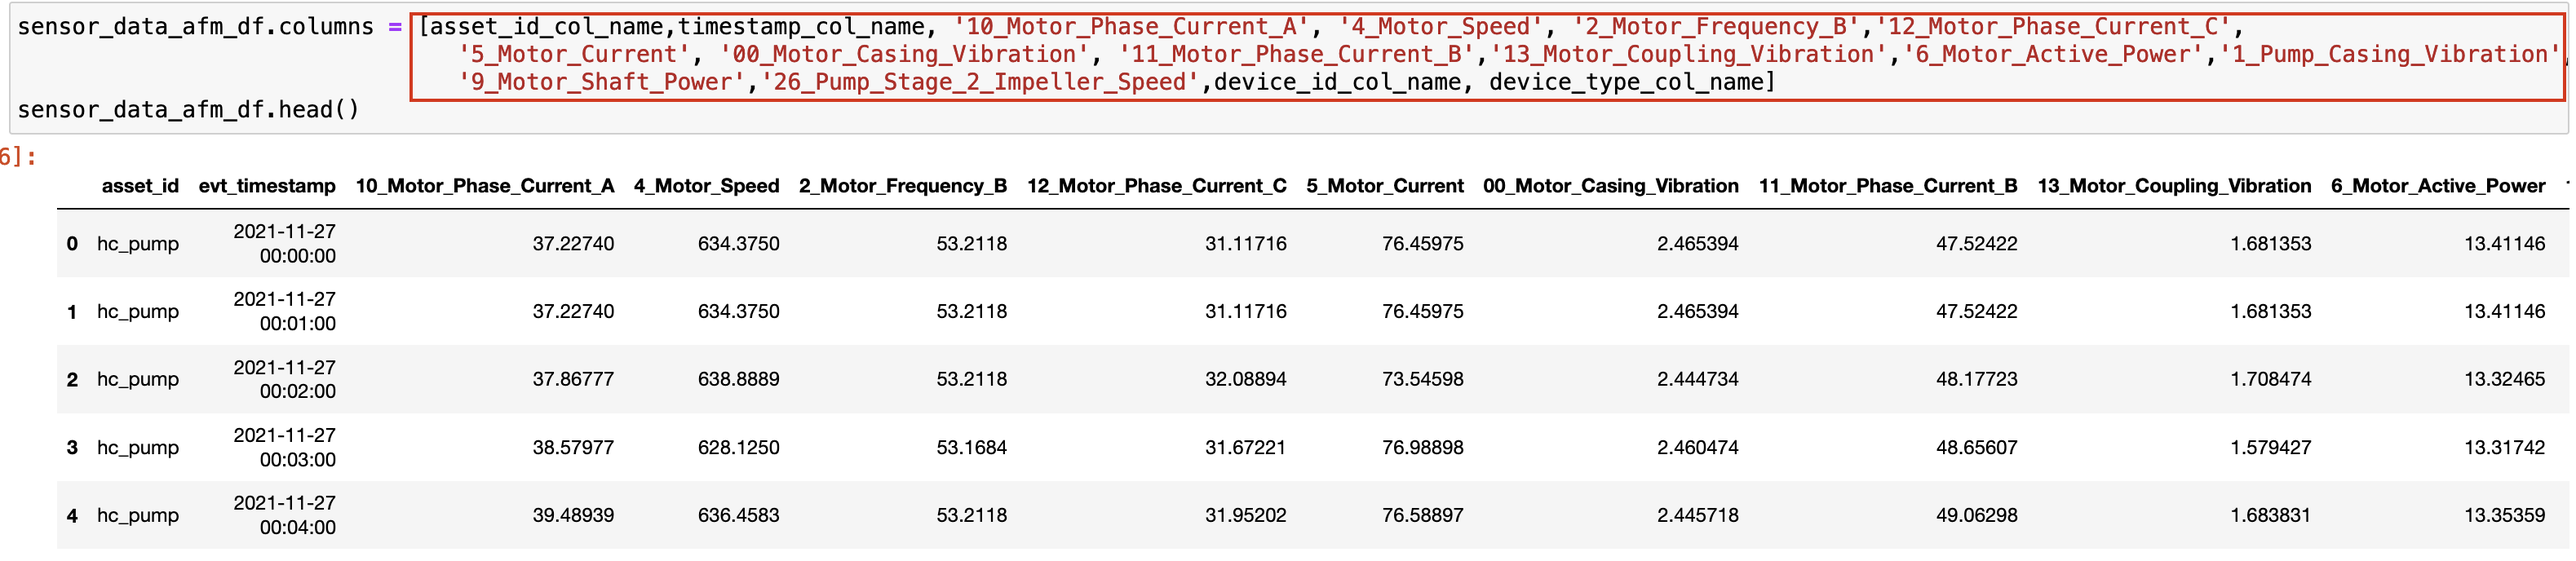
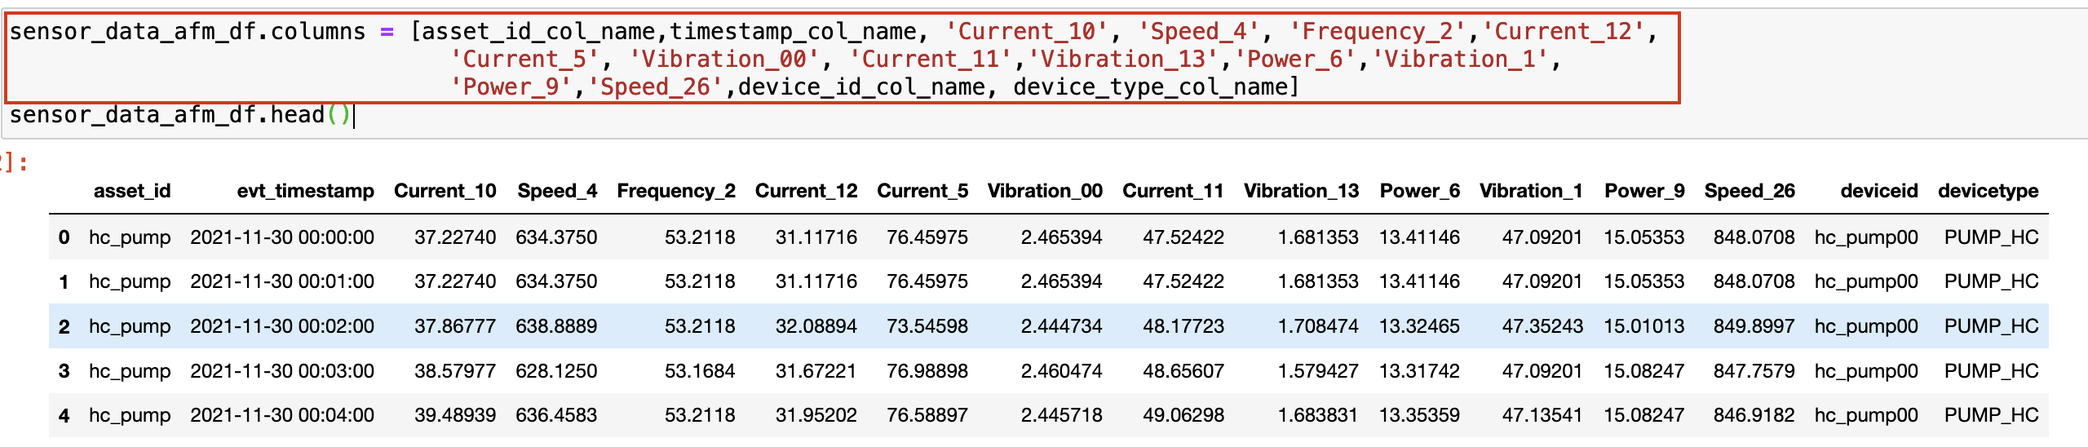
final fsl

diff --git a/MkDocs/apm_8.7/docs/fast_start_loader.md b/MkDocs/apm_8.7/docs/fast_start_loader.md
@@ -64,48 +64,86 @@ Select the `FastStart2021-New.ipynb` notebook template that you have renamed wit
 ![Clean up Outputs](./img/apm_8.7/hpu_fs5.png) 
 ### Part 6 - Delete Existing Data
 Note: This section is REQUIRED if you are refreshing asset data or uploading new data for an existing asset. If you get errors in this section, you may need to update the column header in the data frame created here. See [Update DateFrame Headers](#update_df_headers).
+
 1. Run the first four cells to delete data from Maximo to be replaced. Wait five minutes after the final cell to allow for the data to be fully deleted
+
 2. Run the next two cells to delete the asset group
+
 ## Part 7 - Insert Data
 The following steps will update the MAS database to include the data from the CSV files.
 1. Run the cell to view the DataFrame to be imported and run the following cell to use the pmlib library to create the assets in the list.
+
 2. Run the cell to view the assets attributes that will be imported into MAS. Run the following cell to update those values.
+
 3. Run the cell to view the failure history that will be imported into MAS. Run the following cell to import the failure data.
+
 4. Run the cell to write the function definitions required to create your asset group. Run the following cell to create teh asset group.
+
 5. Run the cell to print the asset group name and the asset group id. Take a note of the results as they may be needed in future notebooks.
+
 ![Asset Group Details](./img/apm_8.7/hpu_fs8.png) 
+
 6. Run the following cell to store the notebook results
+
 7. Set up the IOT Devices:
+
    1. Update DataFrame columns from `[timestamp_col_name, asset_id_col_name, 'VELOCITYX', 'VELOCITYY', 'VELOCITYZ', 'MOTORTEMP', 'WINDINGTEMP', 'CURRENT', 'PRESSURE', 'LOAD', device_id_col_name, device_type_col_name]` to match the sensor readings for your asset. For example, the line may now read:
-   `sensor_data_afm_df.columns = [asset_id_col_name,timestamp_col_name, '10_Motor_Phase_Current_A', '4_Motor_Speed', '2_Motor_Frequency_B','12_Motor_Phase_Current_C', '5_Motor_Current', '00_Motor_Casing_Vibration', '11_Motor_Phase_Current_B','13_Motor_Coupling_Vibration','6_Motor_Active_Power','1_Pump_Casing_Vibration','9_Motor_Shaft_Power','26_Pump_Stage_2_Impeller_Speed',device_id_col_name, device_type_col_name]`
+   `sensor_data_afm_df.columns = [asset_id_col_name,timestamp_col_name, 'Current_10', 'Speed_4', 'Frequency_2','Current_12','Current_5', 'Vibration_00', 'Current_11','Vibration_13','Power_6','Vibration_1','Power_9','Speed_26',device_id_col_name, device_type_col_name]`
+  
    ![Sensor Columns](./img/apm_8.7/hpu_fs9.png)
-   2. Run the cell
-   3. Take the same column list used in step one, and remove the Timestamp, Asset id, Device Id and the Device Type leaving only the sensor column headers and update the value of `columns`
+   
+   4. Run the cell
+   
+   5. Click into the next cell
+   
+   6. In the menu, go to `Insert > Cell Above` 
+   
+   ![Insert Cell Above](./img/apm_8.7/hpu_fs6.png) 
+   
+   8. In that cell, insert the following code and run:
+   `features_for_training=list(set(list(sensor_data_afm_df.columns))- set(['asset_id','evt_timestamp','deviceid','devicetype']))
+features_for_training`
+   
+   9. Update the value of `columns` to `columns=features_for_training`
+   
    ![Sensor Columns](./img/apm_8.7/hpu_fs10.png)
-   4. Run the cell and ensure there are no errors
-   5. Run the following cell to import the asset device mappings
-   6. Continue to part 8 or scroll down to run the final cell to save the results.
+   
+   12. Run the cell and ensure there are no errors
+   
+   13. Run the following cell to import the asset device mappings
+   
+   14. Continue to part 8 or scroll down to run the final cell to save the results.
+
 ## Part 8 - Additional Data 
 This portion of the notebook is optional. If there is additional data to be uploaded you can use this section and customize the data being sent to MAS.
 ## Confirm Data Upload
 <a name="confirm_upload"></a>
 1. Navigate to Predict within your environment
+
 2. Use the left-hand menu to go into 'Predict Grouping'
    ![Predict Grouping](./img/apm_8.7/hpu_fs11.png) 
+
 3. Ensure your asset group is available in the list
 ![Asset Group](./img/apm_8.7/hpu_fs12.png)
+
 4. Navigate to IOT within your environment
+
 5. Under devices, search to ensure yor device is there
 ![IOT Device](./img/apm_8.7/hpu_fs13.png)
-6. Navigate to 'Device Types' and find your device type. Check that your physical and logical interfaces are okay
+
+6. Navigate to 'Device Types' and find your device type. Check that your physical and logical interfaces are active
+
 ## Update DataFrame Headers
 <a name="update_df_headers"></a>
    1. Click into the cell that resulted in an error
+
    2. In the menu, go to `Insert > Cell Above` 
    ![Insert Cell Above](./img/apm_8.7/hpu_fs6.png) 
+
    3. Add the following code in the cell:
 `{DataFrame_to_Change}.rename(columns={'{current_column_header}': site_id_col_name}, inplace=True)`
 `{DataFrame_to_Change}.head()`
+
    4. Run the cell. The output should show the new header in the table
     For example: in order to change the `failure_data_afm_df` column header from `'site'` to the preferred header:
  ![Renamed Header](./img/apm_8.7/hpu_fs7.png) 

diff --git a/MkDocs/apm_8.7/docs/about.md b/MkDocs/apm_8.7/docs/about.md
@@ -32,10 +32,11 @@ It is the customer’s responsibility to ensure its own compliance with legal re
 
 # Change Information
 
-| Date            | By                                                       | Description         |
-|:----------------|:---------------------------------------------------------|:--------------------|
-| 2022-06-16      | Balaji Santhanakrishna, Carlos Ferreira and John Douglas | Asset Health Scores |
-| 2022-06-16      | Carlos Ferreira and Kewei Yang                           | Added setup Watson Studio exercise. Wrote getting started and pre-requisites and overall editing of content. |
-| 2022-06-16      | Juan Gu and Carlos Ferreira                              | Added overview of Health and Predict - Utilities models.                                                     |
-| 2022-06-16      | Satish Narasimha                                         | Added how to install and configure App Connect for use with Health and Predict asset data loading.           |
+| Date       | By                                                       | Description                                                                                                                  |
+|:-----------|:---------------------------------------------------------|:-----------------------------------------------------------------------------------------------------------------------------|
+| 2022-06-16 | Balaji Santhanakrishna, Carlos Ferreira and John Douglas | Asset Health Scores                                                                                                          |
+| 2022-06-16 | Carlos Ferreira and Kewei Yang                           | Added setup Watson Studio exercise. Wrote getting started and pre-requisites and overall editing of content.                 |
+| 2022-06-16 | Juan Gu and Carlos Ferreira                              | Added overview of Health and Predict - Utilities models.                                                                     |
+| 2022-06-16 | Satish Narasimha                                         | Added how to install and configure App Connect for use with Health and Predict asset data loading.                           |
+| 2022-07-01 | Hannah Carr                                              | Added how to upload asset failure history, sensor and device data and create a predict group using out of the box notebooks. |
 ---
